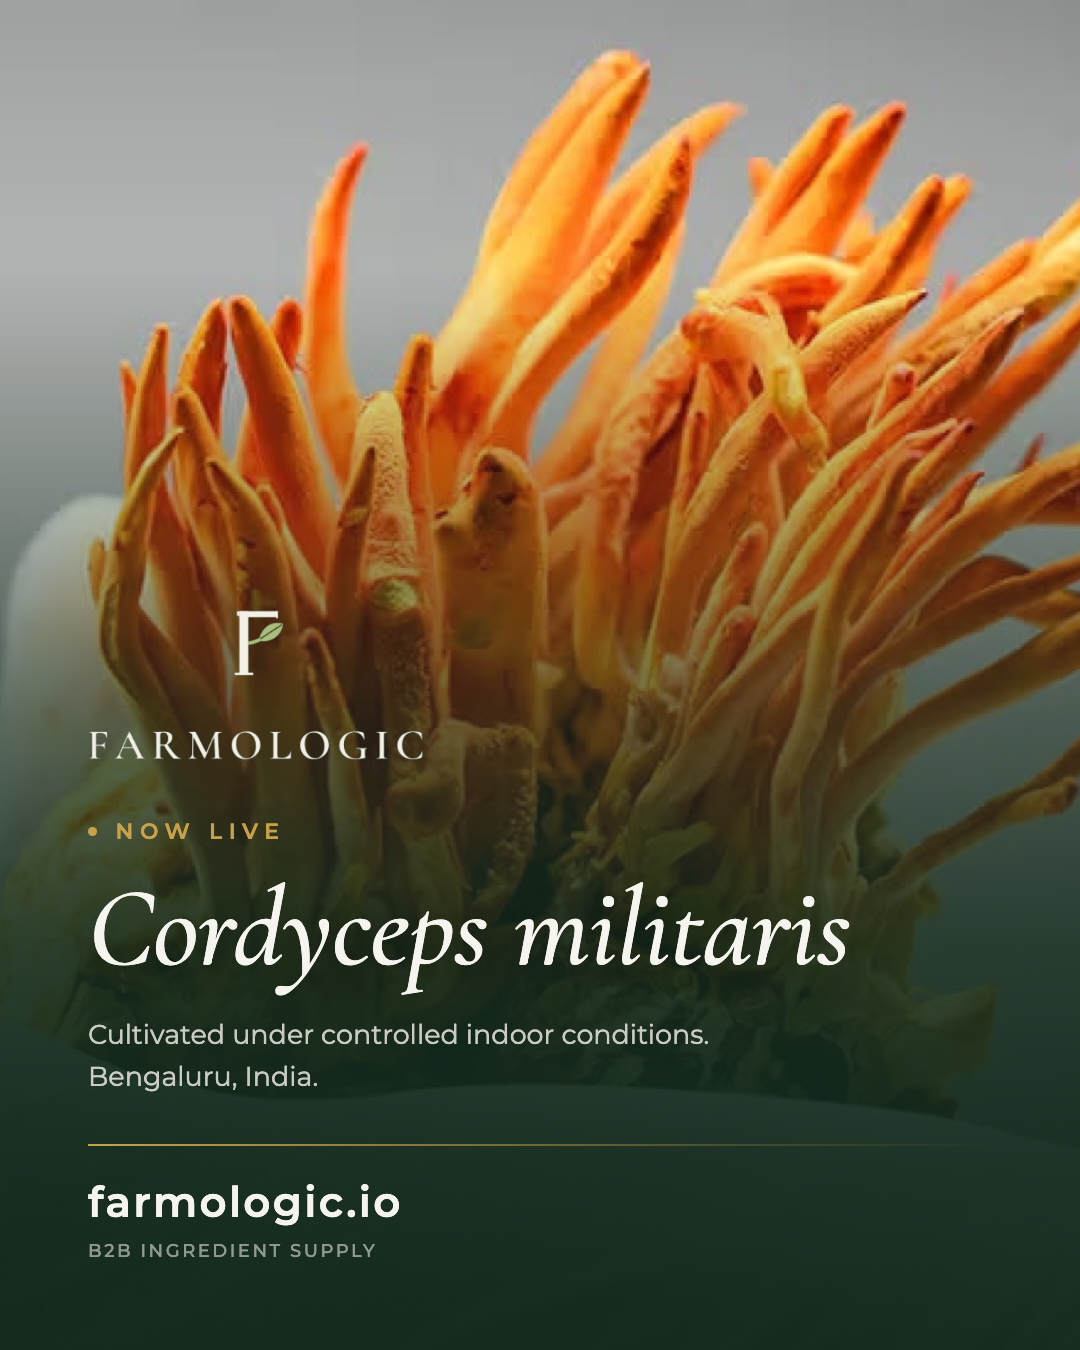
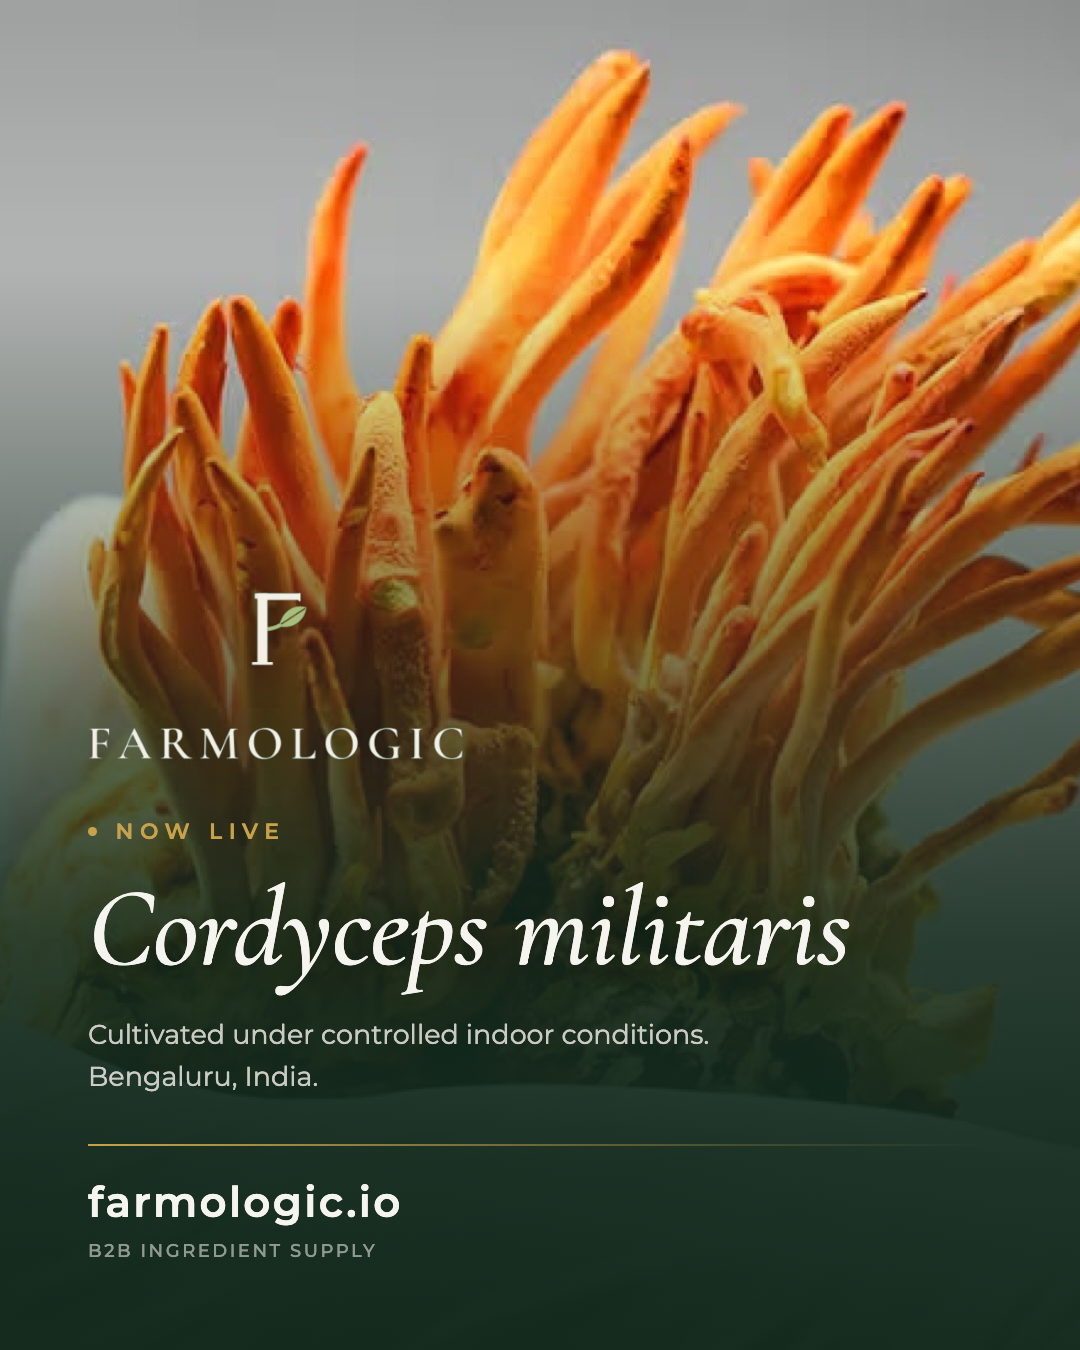
Use the site's own lockup on the posters, and sharpen it everywhere
The posters carried the full lockup with its tagline and rule while the
site nav carried a shorter one, so the two did not match. Both now use the
same mark-and-wordmark lockup, in dark on the bone ground and reversed on
photography, and it is set larger: 176u on the studio boards and 168u on
the photographic ones.

logo-header.png is regenerated from the brand deck's vector art rather
than being a crop of a crop of logo-full.png. It goes from 359x214 to
986x527, so the site nav renders it at 109x58 with nine times the pixels
it needs and is sharp on any display. The intrinsic width and height
attributes are updated on all six pages to match.

Verified: check.mjs clean on 6 pages, no horizontal overflow and no
sub-43px tap targets at 320/390/430/768/1024, and all ten boards read at
full size.

Changed region(s): [[0.0917, 0.5289, 0.4278, 0.56], [0.2139, 0.4356, 0.3056, 0.4978]]

diff --git a/site/index.html b/site/index.html
@@ -103,7 +103,7 @@
 <header class="site-header">
   <div class="shell site-header__inner">
     <a class="site-header__logo" href="/" aria-label="Farmologic — Nature. Science. Wellness. Home">
-      <img src="assets/img/logo-header.png" alt="Farmologic" width="359" height="214">
+      <img src="assets/img/logo-header.png" alt="Farmologic" width="986" height="527">
     </a>
     <button class="nav-toggle" type="button" aria-expanded="false" aria-controls="site-nav" aria-label="Menu">
       <svg class="icon-open" viewBox="0 0 24 24" fill="none" stroke="currentColor" stroke-width="1.5" aria-hidden="true"><path d="M4 7h16M4 12h16M4 17h16"/></svg>

diff --git a/site/404.html b/site/404.html
@@ -26,7 +26,7 @@
 <header class="site-header">
   <div class="shell site-header__inner">
     <a class="site-header__logo" href="/" aria-label="Farmologic — home">
-      <img src="assets/img/logo-header.png" alt="Farmologic" width="359" height="214">
+      <img src="assets/img/logo-header.png" alt="Farmologic" width="986" height="527">
     </a>
     <button class="nav-toggle" type="button" aria-expanded="false" aria-controls="site-nav" aria-label="Menu">
       <svg class="icon-open" viewBox="0 0 24 24" fill="none" stroke="currentColor" stroke-width="1.5" aria-hidden="true"><path d="M4 7h16M4 12h16M4 17h16"/></svg>

diff --git a/site/about.html b/site/about.html
@@ -47,7 +47,7 @@
 <header class="site-header">
   <div class="shell site-header__inner">
     <a class="site-header__logo" href="/" aria-label="Farmologic — home">
-      <img src="assets/img/logo-header.png" alt="Farmologic" width="359" height="214">
+      <img src="assets/img/logo-header.png" alt="Farmologic" width="986" height="527">
     </a>
     <button class="nav-toggle" type="button" aria-expanded="false" aria-controls="site-nav" aria-label="Menu">
       <svg class="icon-open" viewBox="0 0 24 24" fill="none" stroke="currentColor" stroke-width="1.5" aria-hidden="true"><path d="M4 7h16M4 12h16M4 17h16"/></svg>

diff --git a/site/learn.html b/site/learn.html
@@ -38,7 +38,7 @@
 <header class="site-header">
   <div class="shell site-header__inner">
     <a class="site-header__logo" href="/" aria-label="Farmologic — home">
-      <img src="assets/img/logo-header.png" alt="Farmologic" width="359" height="214">
+      <img src="assets/img/logo-header.png" alt="Farmologic" width="986" height="527">
     </a>
     <button class="nav-toggle" type="button" aria-expanded="false" aria-controls="site-nav" aria-label="Menu">
       <svg class="icon-open" viewBox="0 0 24 24" fill="none" stroke="currentColor" stroke-width="1.5" aria-hidden="true"><path d="M4 7h16M4 12h16M4 17h16"/></svg>

diff --git a/site/manifesto.html b/site/manifesto.html
@@ -39,7 +39,7 @@
 <header class="site-header">
   <div class="shell site-header__inner">
     <a class="site-header__logo" href="/" aria-label="Farmologic — home">
-      <img src="assets/img/logo-header.png" alt="Farmologic" width="359" height="214">
+      <img src="assets/img/logo-header.png" alt="Farmologic" width="986" height="527">
     </a>
     <button class="nav-toggle" type="button" aria-expanded="false" aria-controls="site-nav" aria-label="Menu">
       <svg class="icon-open" viewBox="0 0 24 24" fill="none" stroke="currentColor" stroke-width="1.5" aria-hidden="true"><path d="M4 7h16M4 12h16M4 17h16"/></svg>

diff --git a/site/standard.html b/site/standard.html
@@ -49,7 +49,7 @@
 <header class="site-header">
   <div class="shell site-header__inner">
     <a class="site-header__logo" href="/" aria-label="Farmologic — home">
-      <img src="assets/img/logo-header.png" alt="Farmologic" width="359" height="214">
+      <img src="assets/img/logo-header.png" alt="Farmologic" width="986" height="527">
     </a>
     <button class="nav-toggle" type="button" aria-expanded="false" aria-controls="site-nav" aria-label="Menu">
       <svg class="icon-open" viewBox="0 0 24 24" fill="none" stroke="currentColor" stroke-width="1.5" aria-hidden="true"><path d="M4 7h16M4 12h16M4 17h16"/></svg>

diff --git a/marketing/build_posters.py b/marketing/build_posters.py
@@ -160,10 +160,11 @@ def css(fonts):
    so the content is kept inside that. */
 .story .inner{{padding-top:calc(var(--u) * 150);padding-bottom:calc(var(--u) * 250)}}
 
-/* The lockups are lifted from the brand deck's vector art, one dark and one
-   reversed, so neither ground needs the logo boxed on a tile any more. */
+/* The same lockup the site nav uses — mark and wordmark, no tagline — in dark
+   and reversed. Both are rendered from the brand deck's vector art, so neither
+   ground needs the logo boxed on a tile any more. */
 .tile{{display:inline-block;line-height:0;margin-bottom:calc(var(--u) * 54)}}
-.tile img{{display:block;width:auto;height:calc(var(--u) * 150)}}
+.tile img{{display:block;width:auto;height:calc(var(--u) * 168)}}
 .photo .tile img{{filter:drop-shadow(0 calc(var(--u) * 2) calc(var(--u) * 26) rgba(9,20,14,.62))}}
 
 .eyebrow{{display:flex;align-items:center;gap:.85em;color:var(--gold);
@@ -208,7 +209,7 @@ h1{{font-family:'Cormorant Garamond',Georgia,serif;font-style:italic;font-weight
 .story.studio    .motif{{right:0;bottom:40%;width:88%;height:30%}}
 .wide.studio     .motif{{right:4%;bottom:14%;width:26%;height:70%}}
 
-.studio .tile img{{height:calc(var(--u) * 210)}}
+.studio .tile img{{height:calc(var(--u) * 176)}}
 .studio .foot{{position:relative;z-index:2}}
 
 /* Brand gold is 2.19:1 on bone and fails as text, so text here takes the
@@ -267,7 +268,7 @@ def board_markup(variant, shape, w, h, photo_uri, focal, logo_uri, motif_uri):
 def main():
     fonts = {k: data_uri(os.path.join(FONTS, v), "font/ttf") for k, v in FONT_FILES.items()}
     logos = {
-        "studio": data_uri(os.path.join(IMG, "logo-lockup-hi.png"), "image/png"),
+        "studio": data_uri(os.path.join(IMG, "logo-header.png"), "image/png"),
         "photo": data_uri(os.path.join(IMG, "logo-lockup-reversed-nt.png"), "image/png"),
     }
     photos = {}

diff --git a/site/assets/img/CREDITS.md b/site/assets/img/CREDITS.md
@@ -57,7 +57,7 @@ strength of that rule; those attributions have been left as they are.
 | --- | --- | --- |
 | `logo-full.png` | `design-system/assets/logo-full.png` | Locked master lockup, untouched. schema.org logo only. |
 | `logo-lockup.png` | Cropped from `logo-full.png` | Trimmed to its content box. Used on the footer tile. Not redrawn, not recoloured. |
-| `logo-header.png` | Cropped from `logo-lockup.png` | Header lockup: mark and wordmark only, micro-tagline removed because it is illegible at header size. Not redrawn, not recoloured. |
+| `logo-header.png` | Rendered from the brand deck's vector art | Header lockup: mark and wordmark, no micro-tagline, which is illegible at header size. 986x527, replacing a 359x214 crop of a crop. Used in the site nav and on the poster artboards, so both carry the same lockup. Not redrawn, not recoloured. |
 | `logo-lockup-hi.png` | Rendered from the brand deck's vector art | Full lockup, dark, on transparency. Page 04 of `Farmologic-Brand-Presentation.pdf` rendered at 6000px and knocked out. The only high-resolution source there is: `logo-full.png` is 500x500. Used on the poster artboards. |
 | `logo-lockup-reversed.png` | Same source, cover page | Full lockup reversed to ivory, for dark grounds. |
 | `logo-lockup-reversed-nt.png` | Cropped from the above | Reversed lockup without the tagline and rule, which lose legibility over photography. |

diff --git a/marketing/README.md b/marketing/README.md
@@ -72,12 +72,11 @@ Cormorant Garamond and Montserrat, the site's own faces, in `fonts/`
 (SIL Open Font License). Palette is taken from `site/assets/css/tokens.css`:
 forest `#132A1D`, ivory `#F6F4EE`, gold `#C8A24A`.
 
-The logo is never recoloured. Both lockups are rendered from the vector art in
-the brand deck rather than upscaled from `logo-full.png`, which is only
-500x500: the dark one for the bone ground, the reversed one for photography.
-That removed the cream tile the logo used to sit on, since the reversed lockup
-needs no box. On photography the tagline and its rule are dropped, because at
-poster size they lose against the picture.
+The posters carry the same lockup as the site nav — mark and wordmark, no
+tagline — in dark on the bone ground and reversed on photography. Both are
+rendered from the vector art in the brand deck rather than upscaled from
+`logo-full.png`, which is only 500x500. The logo is never recoloured, and the
+cream tile it used to sit on is gone, because a reversed lockup needs no box.
 
 ## Before posting
 
